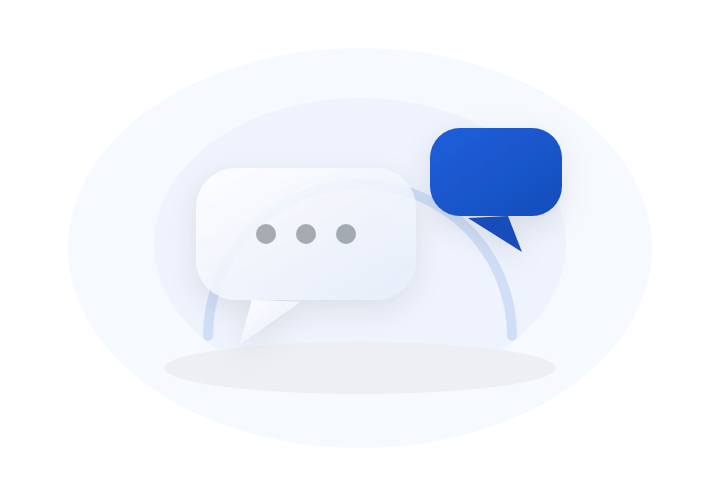
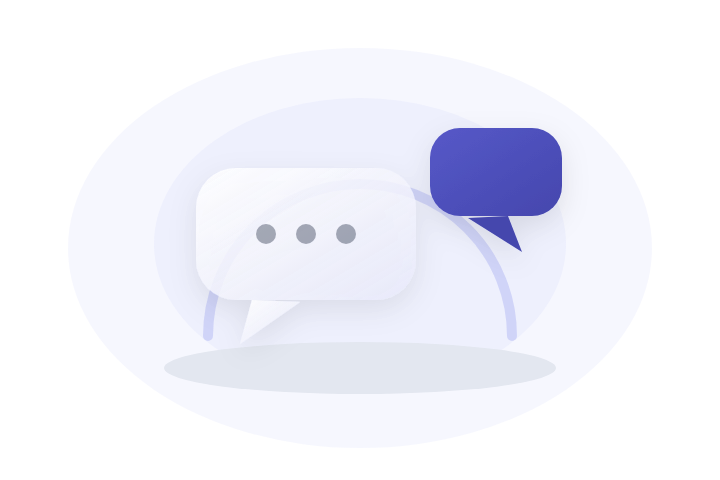
app: Lumen S6 — long-tail alignment, guards, Lumen-palette assets, v7 baselines
- 长尾屏（s13–s19/s35–s46）快速对齐：消息族 cool / 活动族 warm 光晕、
  长尾内容卡统一 L1 玻璃组、骨架统一 --lg-skeleton、危险确认珊瑚语义
- 素材管线换 Lumen 近似调色板（iris #5658c8 系）重生成全部内容媒体与
  原生图标/splash 源图；capacitor 启动色对齐 --lg-canvas #EDEFF6（测试同步）
- 守卫扩展：s3/s4/s5 阶段文件纳入围栏/nth/lg 完整性断言；hig 纳入 lg 引用检查
- ORACLE 顶部标注 Lumen 为视觉权威；迁移计划如实记录：--qa-* 别名退役
  顺延为独立后续 PR（纯重构零视觉影响，需先完成内容面玻璃化语义迁移）
- docs/ui-baselines/manual-v7/：26 张 Lumen 人工评审基线（浅/深/lite ×8 屏）
- 验收：test:app 100/100、build 零警告、全套 e2e 真实退出码 0、
  Web 零差异像素闸 PASS（16 组合全 0px/阈内）

Claude-Session: https://claude.ai/code/session_01ED3NqUHB6Yyh3tUvYwZ6Ev

Changed region(s): [[0.5806, 0.25, 0.7944, 0.5312]]

diff --git a/client/src/styles/app-lumen-s5.css b/client/src/styles/app-lumen-s5.css
@@ -953,3 +953,37 @@ html[data-app="1"] .qa-wallet-v4__asset strong {
   text-overflow: clip;
   letter-spacing: -0.01em;
 }
+
+/* ============================================================================
+   S6 · 长尾屏（s13–s19 / s35–s46）快速对齐：组容器 L1、语义光晕、状态复位
+   ========================================================================== */
+/* 通知/好友/群组/世界书：cool 光晕（消息族语义） */
+html[data-app="1"] :where(.noti-page, .friends-layout, .rooms-page, .wb-page) {
+  background-color: var(--lg-canvas);
+  background-image: var(--lg-ambient-cool);
+  background-attachment: fixed;
+}
+/* 活动/公告：warm；社区/资料库/搜索：默认 iris 由壳层提供 */
+html[data-app="1"] :where(.events-page, .ann-page) {
+  background-color: var(--lg-canvas);
+  background-image: var(--lg-ambient-warm);
+  background-attachment: fixed;
+}
+/* 长尾内容卡统一 L1 玻璃（组容器一层玻璃原则；行内不再套卡） */
+html[data-app="1"] :where(.noti-item, .friend-card, .room-row, .wb-card, .script-card,
+  .ev-card, .ann-card, .cm-post, .gx-card, .lb-row) {
+  background: var(--lg-glass-1);
+  -webkit-backdrop-filter: var(--lg-blur);
+  backdrop-filter: var(--lg-blur);
+  border: 0;
+  box-shadow: var(--lg-glass-shadow-1);
+  border-radius: var(--lg-r-card);
+}
+/* s47 骨架：统一 Lumen 占位纹理 */
+html[data-app="1"] :where(.skel, .msgs-skel-row, .ah-hero-skel, .ah-pick-skel, .ah-rail-skel, .pf-cc-skel) {
+  background: var(--lg-skeleton);
+  background-size: 200% 100%;
+}
+/* s49 危险确认：警示卡珊瑚语义（默认焦点在取消由 overlay 逻辑保证） */
+html[data-app="1"] .modal [role="alertdialog"] .btn.danger,
+html[data-app="1"] .app-sheet .btn.danger { background: var(--lg-coral); color: #ffffff; }

diff --git a/APP_UI_ORACLE.md b/APP_UI_ORACLE.md
@@ -1,5 +1,10 @@
 # 琉璃 Liuli v5 — App 前端设计先知稿（承接静水青 Quiet Aqua v4.2）
 
+> **视觉权威变更（Lumen Glass v1.0）**：App 壳的视觉/材质/色彩层现由
+> `docs/design/LUMEN_GLASS_SPEC.md` 与 `docs/design/lumen-glass-tokens.css`（--lg-*，值冻结）接管；
+> 本稿的产品结构、路由注册、状态矩阵、无障碍与 Web 零差异边界继续有效。
+> 迁移记录见 `docs/design/LUMEN_MIGRATION_PLAN.md`。
+
 文档状态：`v5 / Liuli authority / HTTP App-shell preview`  
 适用边界：通过 `http(s)://<host>/?app=1` 启用的 Capacitor App 壳与 HTTP 内测壳。  
 非适用边界：普通 Web（`?app=0` 或未进入 App 模式）不得被本稿改变。
